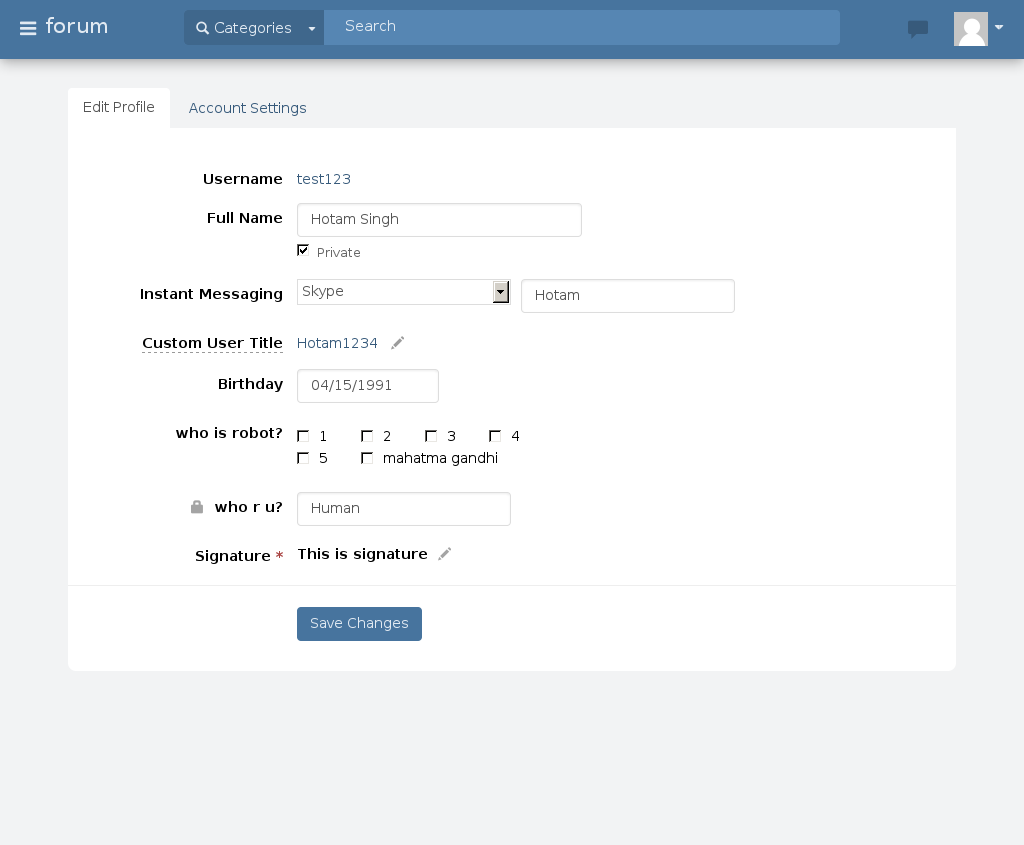
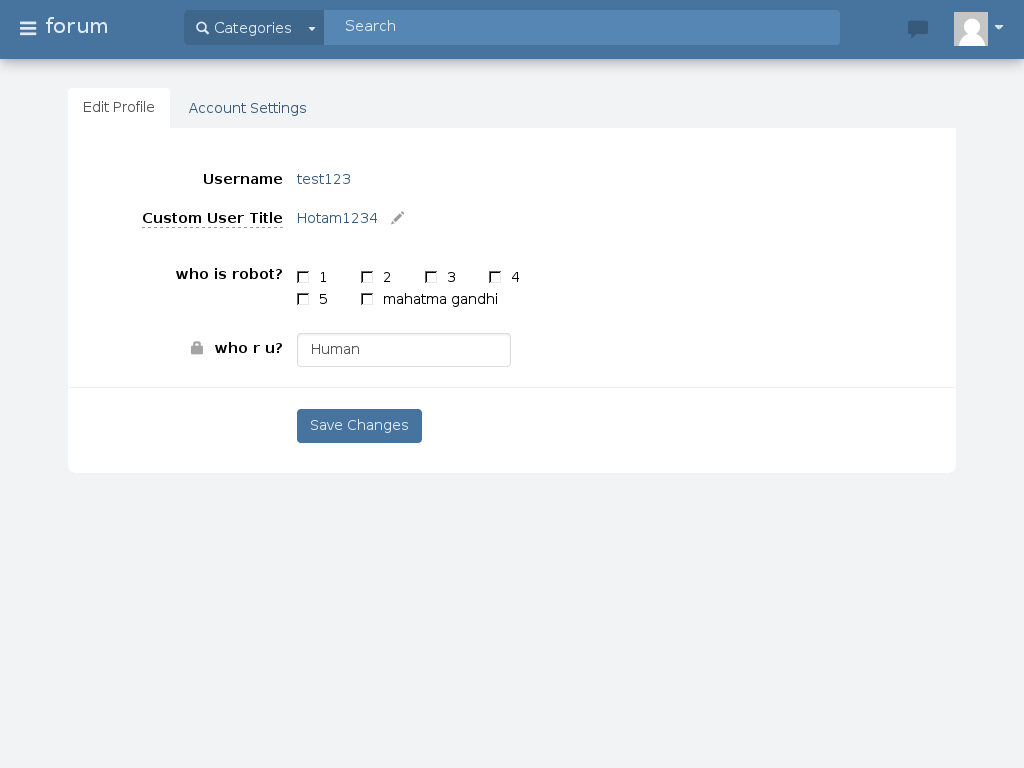
made changes for edit profile page

diff --git a/forum/testsuite/ReusableFn.js b/forum/testsuite/ReusableFn.js
@@ -77,37 +77,26 @@ exports.registerToApp = function(username, email, password, signature, birthday,
 };
 
 // method for editing user's profile page
-exports.editToApp = function(fullName, name_private, imType, imID, usertitle, birthday, whoIsRobot, whoAreYou, signature, driver, callback){
+exports.editToApp = function(usertitle, whoIsRobot, whoAreYou, driver, callback){
 	driver.fill('form[action="/register"]', {
-			'name' : fullName,
-			'name_private' : name_private,
 			'field102611' : whoAreYou
 		}, false); 
 		driver.sendKeys('input[id="field102587_1"]', true);
-		driver.sendKeys('input[id="birthDatepicker"]', birthday);
-		driver.click('#imType');
-		driver.fill('form[action="/register"]',{
-			'imType' : imType,
-			'imID' : imID
-		},false);
 		driver.click('#change_user_title small');
 		driver.fill('form[action="/register"]',{
 			'usertitle' : usertitle
 		},false);
 		driver.click('.editable-buttons');
-		driver.click('#edit_signature small');
-		driver.fill('form[action="/register"]',{
-			'signature' : signature
-		},false);
-		//driver.click('.editable-buttons');
 		driver.click('form[action="/register"] button[name="submit"]');
 		return callback();
 };
 
-// method for validating user's edit profile page
-exports.validateEditing = function(driver,callback) {
-	driver.log('validating', 'error');
-	var status = driver.exists('#edit_signature small');
-	console.log("=============================" +status);
+//method for editing user's account setting.
+exports.editToAccount = function(userName, password, email, driver, callback) {
+	driver.click('#change_user_name small');
+	driver.fill('form[action="/register"]',{
+		'new_username' : userName
+	},false);
+	driver.click('.editable-buttons');
 	return callback();
 };

diff --git a/forum/testsuite/editprofile.js b/forum/testsuite/editprofile.js
@@ -63,14 +63,8 @@ casper.wait(5000, function() {
 
 casper.then(function() {
 	//this.echo("ufullName : " +json['userEdit'].ufullName);
-	reusable.editToApp(json['userEdit'].fullName, json['userEdit'].name_private, json['userEdit'].imType, json['userEdit'].imID, json['userEdit'].usertitle, json['userEdit'].birthday, json['userEdit'].whoIsRobot, json['userEdit'].whoAreYou, json['userEdit'].signature, casper, function(){
+	reusable.editToApp(json['userEdit'].usertitle, json['userEdit'].whoIsRobot, json['userEdit'].whoAreYou, casper, function(){
 		console.log("values are successfully updated");
-	});
-});
-
-casper.then(function(){
-	reusable.validateEditing(casper, function(){
-		casper.log('values are successfully validated', 'error');	
 	});
 });
 
@@ -91,6 +85,21 @@ casper.then(function() {
 
 casper.wait(5000, function() {
 	this.capture('Screenshots/editProfile/userAccountSetting_form.png');
+});
+
+/*
+* Edit data on user's edit profile account setting.
+*/  
+
+casper.then(function() {
+	reusable.editToAccount(json['accountEdit'].userName, json['accountEdit'].password, json['accountEdit'].email, casper, function(){
+		console.log("values are successfully updated");
+	});
+});
+
+casper.wait(5000,function(){
+    this.capture('Screenshots/editProfile/editAccount.png');
+
 });
 
 /*
